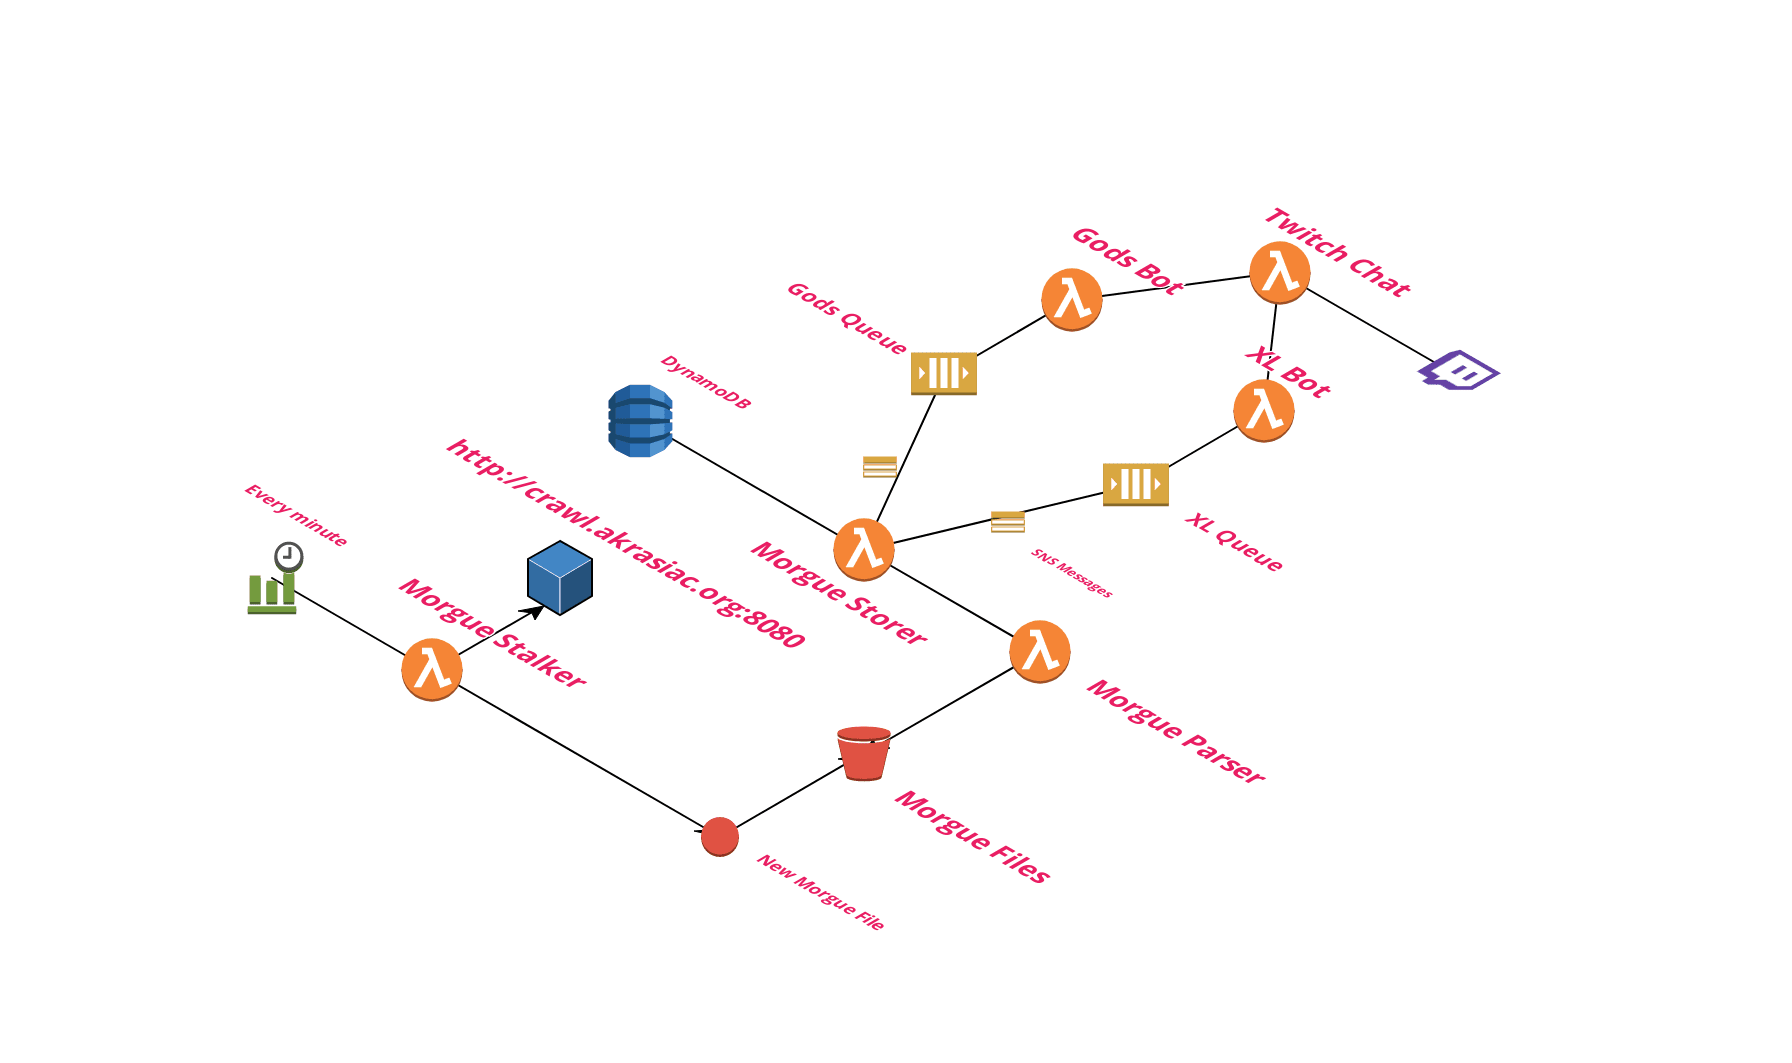
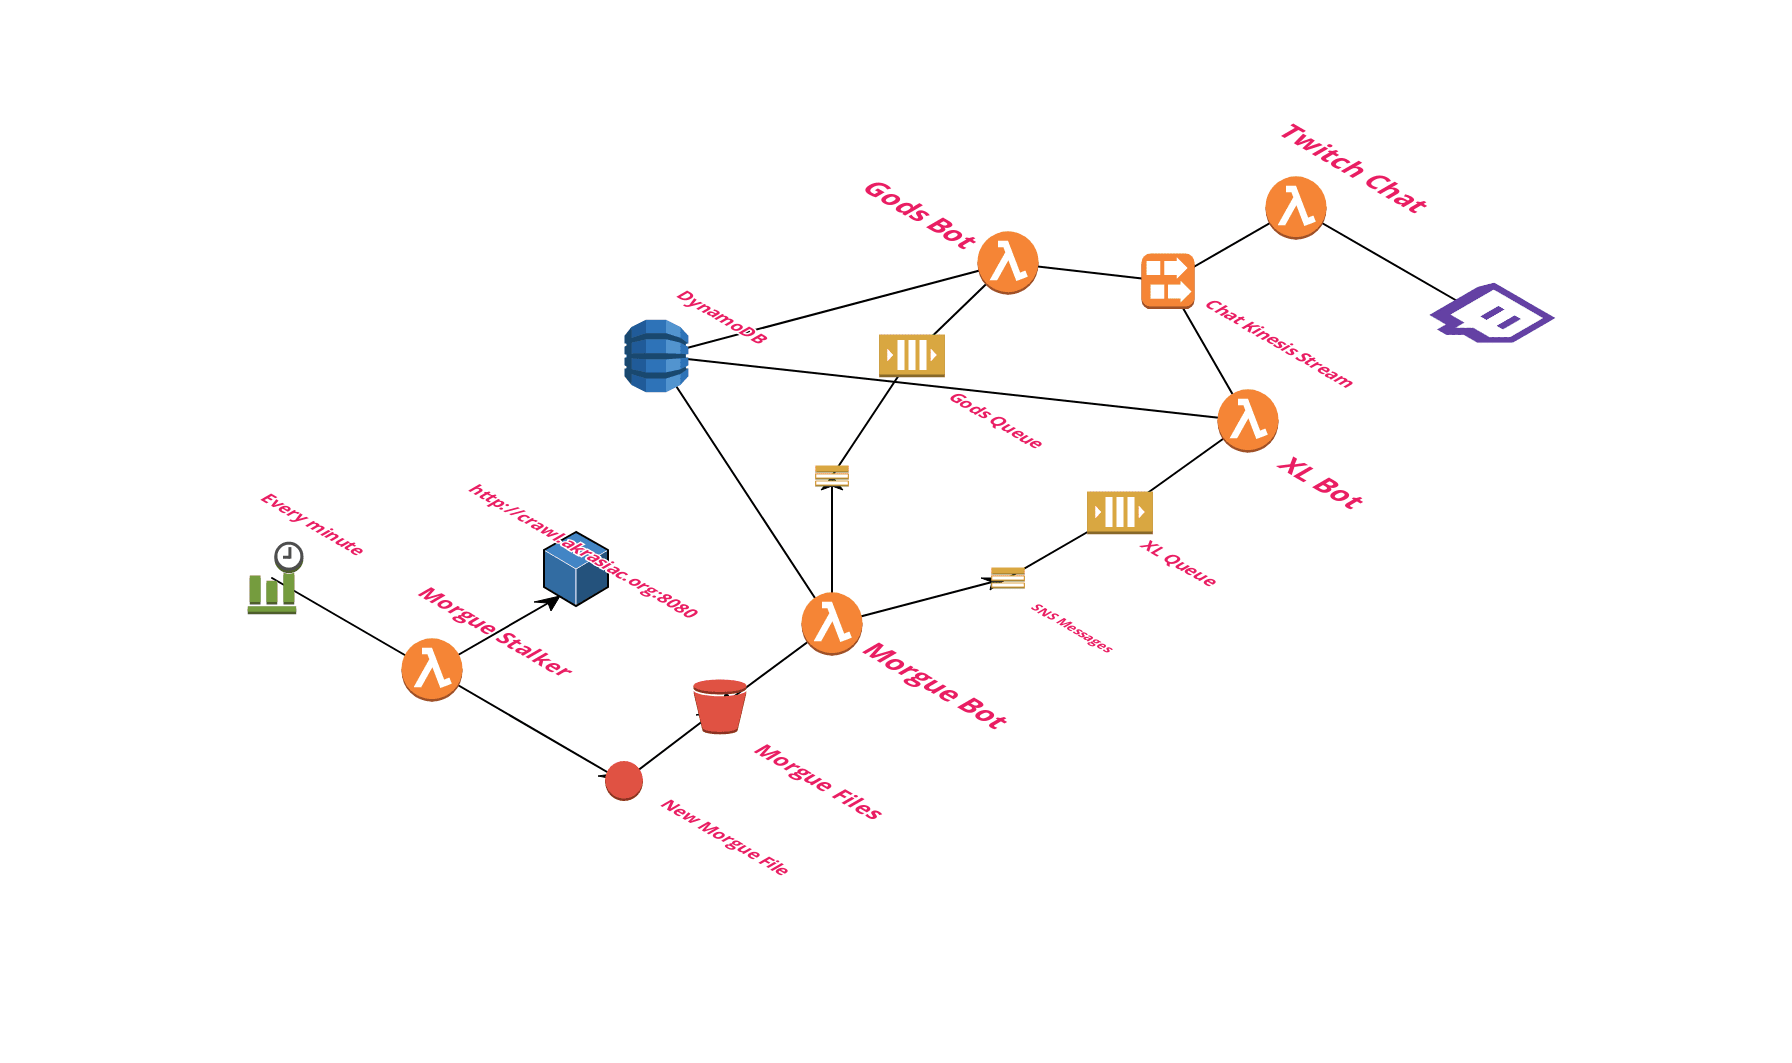
Update Deploy README

diff --git a/deploy/modules/kinesis_lambda.py b/deploy/modules/kinesis_lambda.py
@@ -1,0 +1,1 @@
+# Coming Soon!

diff --git a/deploy/README.md b/deploy/README.md
@@ -1,5 +1,54 @@
-This is a Bot to interact with your local Morgue file, which will let users in Twitch Chat, to ask questions about various aspects of your game:
+# Architecture
 
-## Architecture
+An Example of an event drive architecture using:
+- [AWS Lambda](https://aws.amazon.com/lambda/)
+- [SQS](https://aws.amazon.com/sqs/)
+- [SNS](https://aws.amazon.com/sns/)
+- [S3](https://aws.amazon.com/s3/)
+- [Kinesis](https://aws.amazon.com/kinesis/)
+- [DynamoDB](https://aws.amazon.com/dynamodb/)
+- [X-Ray](https://aws.amazon.com/xray/)
 
 ![Morguebot](../images/MorgueArch.png)
+
+### Morgue Parser
+
+A simple Lambda that is monitoring for new Morgue Files, and once they find one, saving it to S3.
+
+Permissions:
+  - Put Objects from the Morgue Files S3 Bucket
+
+### Morgue Bot
+
+The Main Brain of our system.
+Responds to New Objects (in this case morgue files) dropped into an S3 Bucket. When a new object is dropped, it parses it and updates the Main Datastore DynamoDB, it then sends off SNS messages about all the categories that changed.
+
+Permissions:
+  - Get Objects from the Morgue Files S3 Bucket
+  - Get and Put Objects into DynamoDB
+  - Permission to Send off SNS Messsages
+
+### Gods Bot
+
+A Lambda with a SQS Event Source, that will take a message about new Gods and then calculate a message to send. Which it will invoke the twitch bit to send to the Chat.
+
+Permissions:
+  - Receive SQS Messages
+  - Invoke the Twitch Chat Bot
+
+
+### XL Bot
+
+A Lambda with a SQS Event Source, that will take a message about Experiece Level Upgrades and then calculate a message to send. Which it will invoke the twitch bit to send to the Chat.
+
+Permissions:
+  - Receive SQS Messages
+  - Right to the Chat Bot Kinesis Stream
+
+### Twitch Chat Bot
+
+Kinesis Stream Event source Lambda whose sole responsiblility is talking to Twitch.
+
+Permissions:
+  - Permission to Read off the Kinesis Stream
+  - Ouath Permissions to talk to Twitch

diff --git a/README.md b/README.md
@@ -56,6 +56,14 @@ You can disable sending bot messages to twitch and output to STDOUT with `-d` or
 python bot.py -e mutations -d
 ```
 
+## Deploying
+
+```
+time make artifact_deploy ARTIFACT_NAME=handler_v1.zip 
+```
+
 ## Deployed Architecture
+
+More Info in the [Deploy README](deploy/README.md)
 
 ![Morguebot](images/MorgueArch.png)
